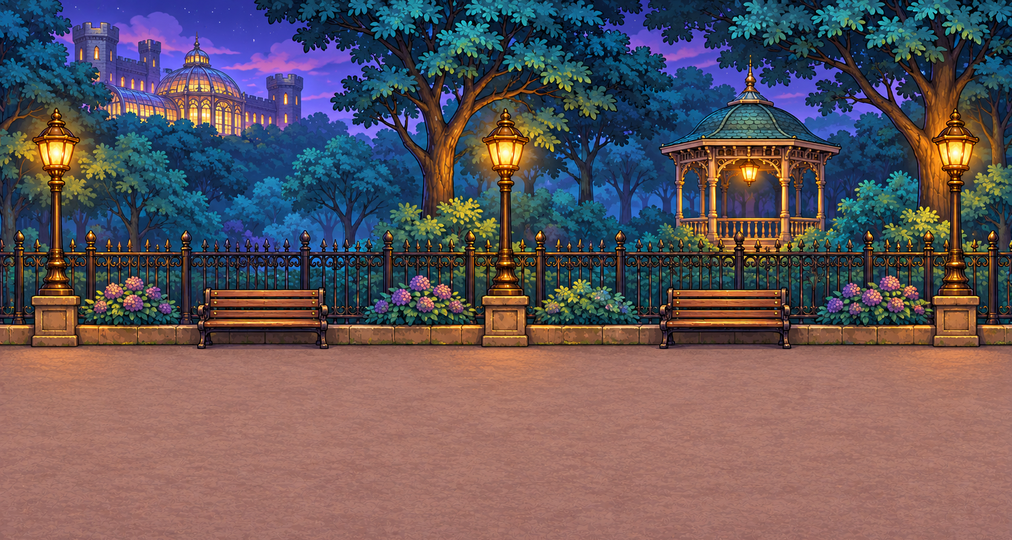
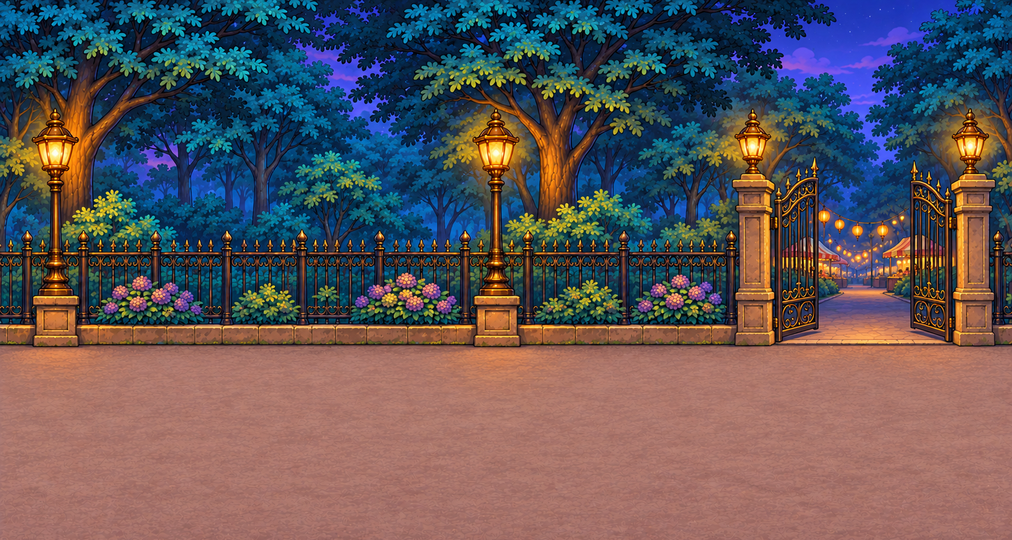
Catnip Park finished art: second panel, hedge, bench and nook props; exit is the painted gate
- Importer: key-colour cut-out (also through gaps), prop-pen
- Park exit is a gateway in the back wall where the gate is painted

Claude-Session: https://claude.ai/code/session_01EFsKEU9Uzc3eW84k9FYvKj

diff --git a/src/brawl/street.js b/src/brawl/street.js
@@ -127,6 +127,13 @@ export class Street {
   pen(t) {
     const p = { x: t.x, y: t.y, w: t.w, d: t.h }, c = 0x9aa3b8, tall = 62, front = p.y + p.d;
     this.pens.push(p);
+    if (this.has('prop-pen')) {                            // a painted front (a hedge arch): low clipped sides run back to the wall
+      const green = 0x1f7a66, low = 30;                    // matched to the painted hedge
+      for (const x of [p.x, p.x + p.w - 16]) { this.rect(x, p.y - low, 16, p.d, green, front - 1); this.rect(x, front - low - 1, 16, low, darker(green), front - 1); }
+      const src = this.scene.textures.get('prop-pen').getSourceImage();
+      this.scene.add.image(p.x, front, 'prop-pen').setOrigin(0, 1).setScale(p.w / src.width).setDepth(front);
+      return;
+    }
     for (const x of [p.x, p.x + p.w - 6]) {                                           // side fences, running back to the wall
       this.rect(x, p.y - tall, 6, tall + p.d, c, front - 1, 0.35);
       for (let y = p.y - tall + 6; y < front; y += 16) this.rect(x - 1, y, 8, 2, c, front - 1);

diff --git a/tools/import_scenery.py b/tools/import_scenery.py
@@ -13,29 +13,37 @@ Strips are resized to the sizes in art/TODO.md. Props have their flat background
 corner pixels), are trimmed, and scaled to the on-screen width below.
 """
 import argparse, glob, json, os, sys
-from collections import deque
+import numpy as np
+from scipy import ndimage
 from PIL import Image
 
 ROOT = os.path.dirname(os.path.dirname(os.path.abspath(__file__)))
 RAW, OUT, LIST = os.path.join(ROOT, 'art/raw'), os.path.join(ROOT, 'assets/scenery'), os.path.join(ROOT, 'assets/scenery.json')
 SIDECAR, FLOOR = os.path.join(ROOT, 'art/raw/scenery.json'), 345
 STRIPS = {'far': (960, 300), 'wall': (960, 110), 'floor': (960, 195)}
-PROPS = {'dumpster': 150, 'crate': 64, 'breakable': 58, 'gate': 24, 'block': 110, 'hedge': 130, 'bench': 110}     # on-screen width, by map class
+PROPS = {'dumpster': 150, 'crate': 64, 'breakable': 58, 'gate': 24, 'block': 110, 'hedge': 130, 'bench': 110, 'pen': 150}     # on-screen width, by map class
 ALIASES = {'heavy-crate': 'breakable'}                                                # brief name -> map class
 
 
 def cut_background(im, tolerance=40):
-    """Make the flat background transparent by flood-filling from the edges."""
-    im = im.convert('RGBA'); w, h = im.size; px = im.load()
-    bg = px[0, 0][:3]
-    near = lambda c: c[3] == 0 or sum(abs(a - b) for a, b in zip(c[:3], bg)) <= tolerance
-    seen, todo = set(), deque((x, y) for x in range(w) for y in (0, h - 1)) + deque((x, y) for y in range(h) for x in (0, w - 1))
-    while todo:
-        x, y = todo.popleft()
-        if (x, y) in seen or not (0 <= x < w and 0 <= y < h) or not near(px[x, y]): continue
-        seen.add((x, y)); px[x, y] = (0, 0, 0, 0)
-        todo.extend(((x + 1, y), (x - 1, y), (x, y + 1), (x, y - 1)))
-    box = im.getbbox()
+    """Make the flat background transparent.
+
+    A strongly coloured background (the usual magenta or green key) is removed wherever it appears, including
+    through gaps such as between a bench's slats, with a wider tolerance because generators never fill it evenly;
+    a 1 px rim is then shaved off so no key colour is left on the outline. A dull background (white, grey) is
+    only flood-filled from the edges, since the prop itself may contain that colour.
+    """
+    im = im.convert('RGBA'); px = np.array(im); rgb = px[..., :3].astype(int)
+    bg = rgb[0, 0]; dist = np.abs(rgb - bg).sum(-1)
+    if bg.max() - bg.min() > 120:                       # a key colour
+        mask = dist <= max(tolerance, 150)
+        mask = ndimage.binary_dilation(mask, iterations=1)
+    else:
+        lab, _ = ndimage.label(dist <= tolerance)
+        edge = set(lab[0]) | set(lab[-1]) | set(lab[:, 0]) | set(lab[:, -1]); edge.discard(0)
+        mask = np.isin(lab, list(edge))
+    px[mask] = 0
+    im = Image.fromarray(px); box = im.getbbox()
     return im.crop(box) if box else im
 
 

diff --git a/README.md b/README.md
@@ -137,6 +137,7 @@ Layer `things`, by object class:
 | `door`   | Rectangle at a street end. `name`, plus properties `target`, `targetDoor`, `label` |
 |          | With property `side` = `back` it is a doorway in the back wall: stand in front, walk up |
 | `pen`    | Rectangle against the back wall, fenced in. Only Luna fits; no swapping cats inside |
+|          | Drawn as a wire fence, or with `prop-pen.png` (a front with a gap in it) if that exists |
 | `switch` | Property `opens` = the gate's name. Walk onto it or claw it                        |
 | `pickup` | Property `kind` (`fish`, `catnip`, `bell`, `milk`, `sticky`, `heal`, `pounce`). Give it a `name`; taken once per run |
 | `sign`   | Property `text`                                                                    |
